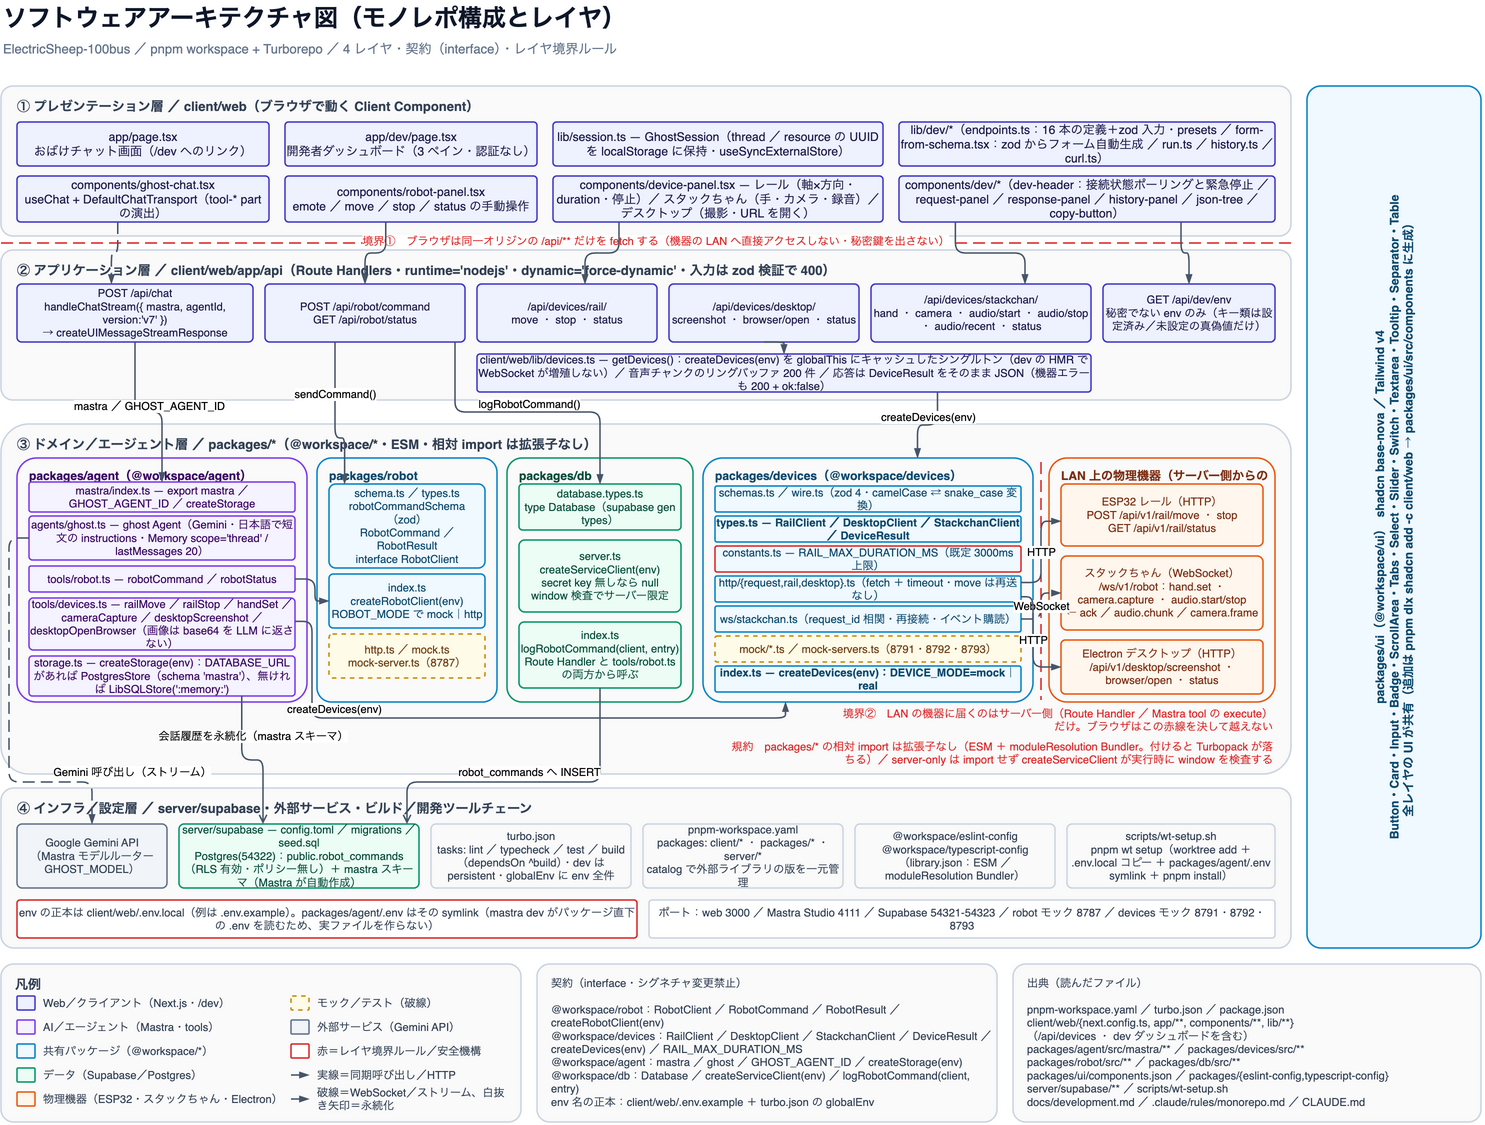
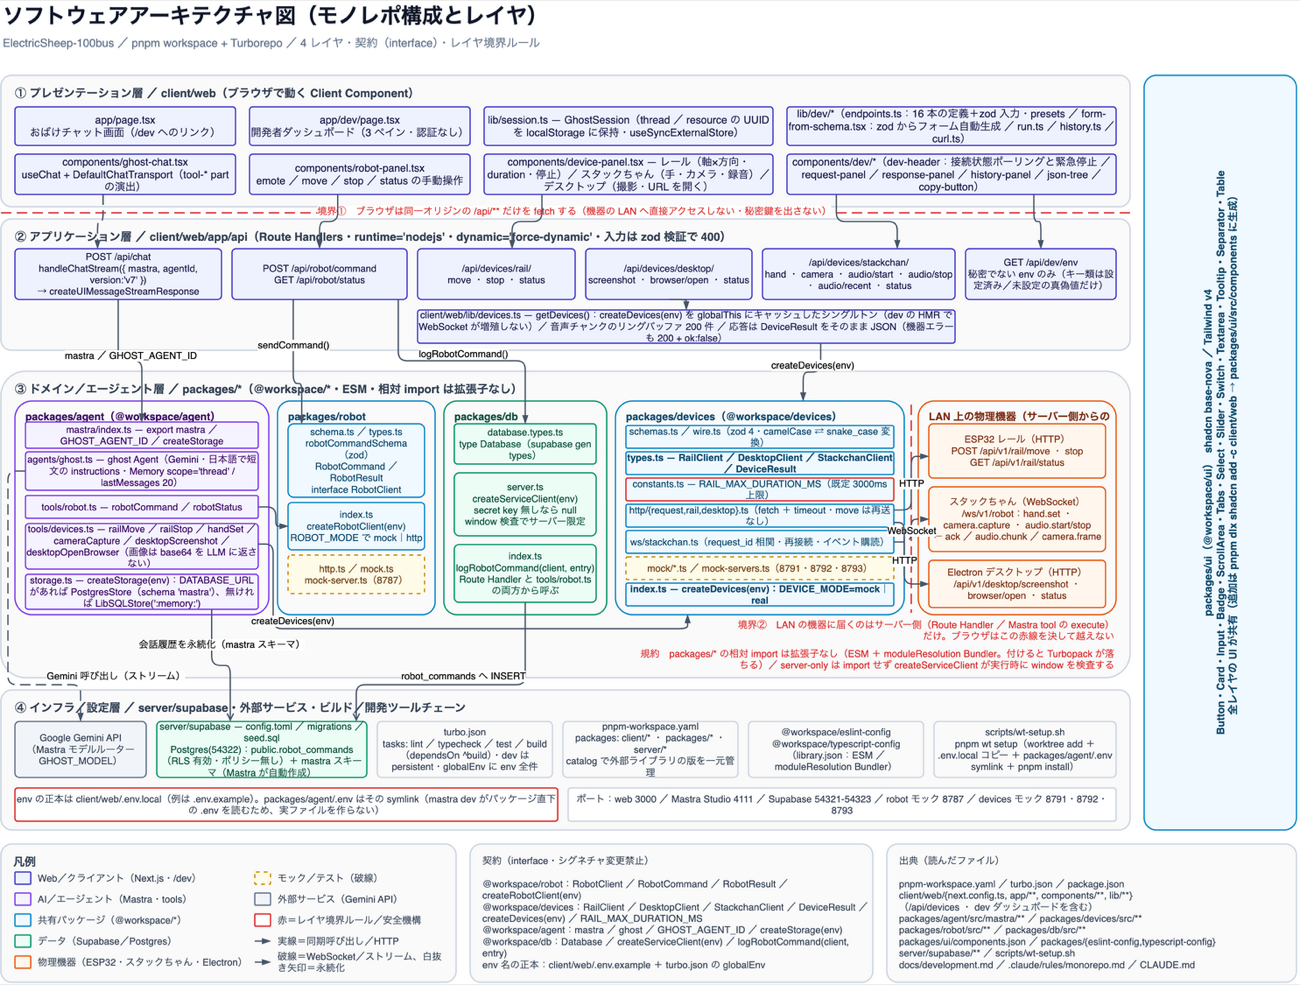
chore: public 公開前の衛生対応（絶対パス・LAN IP の除去、MIT LICENSE 追加）
- docs/development.md・docs/reports/env-setup.html の絶対パスを
  $(git rev-parse --show-toplevel) / <REPO_ROOT> に置換（28 箇所）
- docs/runbooks/devices.md の LAN IP 実値 7 箇所を
  <ESP32_IP> / <STACKCHAN_IP> / <ELECTRON_IP> に置換
- ルートに MIT LICENSE を追加し、全 package.json に "license": "MIT" を設定
  （typescript-config の PROPRIETARY も MIT に変更）
- README.md に /dev・/api/dev/*・/api/devices/* が認証なしでローカル専用である
  注意書きを追加（dev-dashboard.md の表現に合わせる）
- .env.example の DEVICE_MODE コメントを実装に合わせ mock | real に修正、
  DATABASE_URL に Supabase ローカル既定値である旨を追記（README の env 表も同様）
- .gitignore に .claude/settings.local.json と .mcp.json を追加（予防）
- env-setup.html の gh repo create を --public に変更し、監査済みである旨に更新
- 1MB 超の PNG 3 点を sips で縮小（architecture 1.71MB→965KB /
  usecase 1.29MB→978KB / software 1.09MB→985KB）し、手順を diagrams/README.md に追記

Claude-Session: https://claude.ai/code/session_01DZksYTudxGHrLEE6ZMd4Vk

diff --git a/docs/reports/env-setup.html b/docs/reports/env-setup.html
@@ -73,7 +73,8 @@
 <div class="note">
   <strong>いまの状態</strong>：モックで <em>全機能が動く</em>。実機（ESP32 レール・スタックちゃん・Electron）は
   IP / ポート / 認証が未確定のため未接続。<code>.env.local</code> に実機 URL を入れて <code>DEVICE_MODE=real</code> にすれば、
-  コードを 1 行も触らずに切り替わる。
+  コードを 1 行も触らずに切り替わる。<br>
+  本レポート中の <code>&lt;REPO_ROOT&gt;</code> は、このリポジトリをクローンしたルートディレクトリを指す。
 </div>
 
 <!-- ====================== ① やったこと ====================== -->
@@ -274,7 +275,7 @@ EXIT=0   lint 警告 0（出力中の warning は Node の DEP0205 のみ）</co
     <div class="chk-title"><label for="c1">1. 残っている bootstrap worktree を削除する</label></div>
     <div class="chk-tags"><span class="tag">担当: 開発者</span><span class="tag">所要 1 分</span></div>
     <p class="why">なぜ人間か: 別セッションが作った worktree なので、エージェントは他セッションの作業中ディレクトリを消せない規約（削除は作成者のみ）。中身はすでに develop にマージ済み。</p>
-<pre><code>git -C /Users/nano/workspace/contest/hackathon/ElectricSheep-100bus worktree remove /Users/nano/workspace/contest/hackathon/ElectricSheep-100bus/.claude/worktrees/bootstrap</code></pre>
+<pre><code>git -C &lt;REPO_ROOT&gt; worktree remove &lt;REPO_ROOT&gt;/.claude/worktrees/bootstrap</code></pre>
   </div>
 </li>
 
@@ -299,7 +300,7 @@ EXIT=0   lint 警告 0（出力中の warning は Node の DEP0205 のみ）</co
     </table>
     </div>
     <p class="why">詳細版（<code>ack</code> / <code>error</code> のスキーマ、同時接続の可否、ネットワーク条件を含む 11 項目）：
-      <code>/Users/nano/workspace/contest/hackathon/ElectricSheep-100bus/docs/runbooks/devices.md</code> の「§8 未確定事項チェックリスト」</p>
+      <code>&lt;REPO_ROOT&gt;/docs/runbooks/devices.md</code> の「§8 未確定事項チェックリスト」</p>
   </div>
 </li>
 
@@ -310,7 +311,7 @@ EXIT=0   lint 警告 0（出力中の warning は Node の DEP0205 のみ）</co
     <div class="chk-tags"><span class="tag">担当: 開発者（実機の前で）</span><span class="tag">項目 2 の回答待ち</span></div>
     <p class="why">なぜ人間か: 実機の電源投入・LAN 接続・物理的な安全確認（動いてよい状態か）が必要で、エージェントには機器の状態が見えないため。最初の <code>rail/move</code> は必ず人が機器を見ながら短時間（500ms）で試す。</p>
     <p>編集するファイル（このファイルだけ。コードは触らない）：</p>
-<pre><code>/Users/nano/workspace/contest/hackathon/ElectricSheep-100bus/client/web/.env.local
+<pre><code>&lt;REPO_ROOT&gt;/client/web/.env.local
 
 DEVICE_MODE=real
 RAIL_BASE_URL=http://192.168.x.x:ポート
@@ -327,9 +328,9 @@ DEVICE_AUTH_TOKEN=（配布されたら）</code></pre>
   <div class="chk-body">
     <div class="chk-title"><label for="c4">4. GitHub リポジトリを作成して push する</label></div>
     <div class="chk-tags"><span class="tag">担当: あなた</span><span class="tag">所要 5 分</span></div>
-    <p class="why">なぜ人間か: リポジトリの可視性（private / public）の決定と、アカウント・組織の選択は不可逆な公開判断を含むため、エージェントは実行しない規約。現状 remote は未設定でローカルのみ。</p>
-<pre><code>cd /Users/nano/workspace/contest/hackathon/ElectricSheep-100bus
-gh repo create ElectricSheep-100bus --private --source=. --remote=origin
+    <p class="why">public 公開前の監査は実施済みで、リポジトリ本文に秘密情報は 0 件（<code>.env.local</code> は <code>.gitignore</code> 済み・絶対パス / LAN IP はプレースホルダ化・LICENSE は MIT）。作者メールアドレスがコミットメタデータに残る点の扱いは本人判断。なぜ人間か: 可視性の変更とアカウント・組織の選択は不可逆な公開判断のため、エージェントは実行しない規約。現状 remote は未設定でローカルのみ。</p>
+<pre><code>cd &lt;REPO_ROOT&gt;
+gh repo create ElectricSheep-100bus --public --source=. --remote=origin
 git push -u origin develop
 git push origin main</code></pre>
     <p class="why">機密は <code>.env.local</code> のみで <code>.gitignore</code> 済み（<code>.env.example</code> だけ追跡）。push 前に <code>git status --ignored | grep env</code> で再確認すると安心。</p>
@@ -342,7 +343,7 @@ git push origin main</code></pre>
     <div class="chk-title"><label for="c5">5. <code>develop</code> → <code>main</code> への反映を許可・実行する</label></div>
     <div class="chk-tags"><span class="tag">担当: あなた</span><span class="tag">項目 3 の実機確認後を推奨</span></div>
     <p class="why">なぜ人間か: <code>main</code> へのマージと push はエージェント禁止（規約で機械的にブロック済み）。実機確認まで済ませてから反映するのが安全。</p>
-<pre><code>cd /Users/nano/workspace/contest/hackathon/ElectricSheep-100bus
+<pre><code>cd &lt;REPO_ROOT&gt;
 git log --oneline main..develop      # 入る変更を確認
 git checkout main &amp;&amp; git merge --ff-only develop
 git push origin main                 # 項目 4 を済ませている場合</code></pre>
@@ -365,7 +366,7 @@ git push origin main                 # 項目 4 を済ませている場合</cod
       </tbody>
     </table>
     </div>
-    <p class="why">切り替えは <code>/Users/nano/workspace/contest/hackathon/ElectricSheep-100bus/client/web/.env.local</code> を編集して <code>pnpm dev</code> を再起動するだけ。<strong>デモ中は <code>/dev</code> を開いたタブを来場者の手が届く画面に出さない</strong>（認証なしで機器が動く）。</p>
+    <p class="why">切り替えは <code>&lt;REPO_ROOT&gt;/client/web/.env.local</code> を編集して <code>pnpm dev</code> を再起動するだけ。<strong>デモ中は <code>/dev</code> を開いたタブを来場者の手が届く画面に出さない</strong>（認証なしで機器が動く）。</p>
   </div>
 </li>
 
@@ -375,26 +376,26 @@ git push origin main                 # 項目 4 を済ませている場合</cod
 <h2>④ 参照</h2>
 
 <h3>ドキュメント（絶対パス）</h3>
-<pre><code>/Users/nano/workspace/contest/hackathon/ElectricSheep-100bus/README.md
-/Users/nano/workspace/contest/hackathon/ElectricSheep-100bus/docs/setup.md
-/Users/nano/workspace/contest/hackathon/ElectricSheep-100bus/docs/development.md
-/Users/nano/workspace/contest/hackathon/ElectricSheep-100bus/docs/specs/robot-api-requirements.md
-/Users/nano/workspace/contest/hackathon/ElectricSheep-100bus/docs/runbooks/devices.md
-/Users/nano/workspace/contest/hackathon/ElectricSheep-100bus/docs/runbooks/dev-dashboard.md
-/Users/nano/workspace/contest/hackathon/ElectricSheep-100bus/docs/runbooks/mastra.md
-/Users/nano/workspace/contest/hackathon/ElectricSheep-100bus/docs/runbooks/supabase.md
-/Users/nano/workspace/contest/hackathon/ElectricSheep-100bus/docs/runbooks/robot.md
-/Users/nano/workspace/contest/hackathon/ElectricSheep-100bus/docs/reports/env-setup.html   ← 本レポート
-/Users/nano/workspace/contest/hackathon/ElectricSheep-100bus/.claude/skills/dev-runbook/SKILL.md
-/Users/nano/workspace/contest/hackathon/ElectricSheep-100bus/docs/diagrams/README.md              &larr; 資料用ダイアグラム 6 点の索引
-/Users/nano/workspace/contest/hackathon/ElectricSheep-100bus/docs/diagrams/usecase.drawio          ユースケース図
-/Users/nano/workspace/contest/hackathon/ElectricSheep-100bus/docs/diagrams/context.drawio          コンテキスト図
-/Users/nano/workspace/contest/hackathon/ElectricSheep-100bus/docs/diagrams/architecture.drawio     システムアーキテクチャ図
-/Users/nano/workspace/contest/hackathon/ElectricSheep-100bus/docs/diagrams/software.drawio         ソフトウェアアーキテクチャ図
-/Users/nano/workspace/contest/hackathon/ElectricSheep-100bus/docs/diagrams/dependencies.drawio     依存関係図
-/Users/nano/workspace/contest/hackathon/ElectricSheep-100bus/docs/diagrams/quality.drawio          こだわり図
-/Users/nano/workspace/contest/hackathon/ElectricSheep-100bus/client/web/.env.local          ← env の正本
-/Users/nano/workspace/contest/hackathon/ElectricSheep-100bus/client/web/.env.example</code></pre>
+<pre><code>&lt;REPO_ROOT&gt;/README.md
+&lt;REPO_ROOT&gt;/docs/setup.md
+&lt;REPO_ROOT&gt;/docs/development.md
+&lt;REPO_ROOT&gt;/docs/specs/robot-api-requirements.md
+&lt;REPO_ROOT&gt;/docs/runbooks/devices.md
+&lt;REPO_ROOT&gt;/docs/runbooks/dev-dashboard.md
+&lt;REPO_ROOT&gt;/docs/runbooks/mastra.md
+&lt;REPO_ROOT&gt;/docs/runbooks/supabase.md
+&lt;REPO_ROOT&gt;/docs/runbooks/robot.md
+&lt;REPO_ROOT&gt;/docs/reports/env-setup.html   ← 本レポート
+&lt;REPO_ROOT&gt;/.claude/skills/dev-runbook/SKILL.md
+&lt;REPO_ROOT&gt;/docs/diagrams/README.md              &larr; 資料用ダイアグラム 6 点の索引
+&lt;REPO_ROOT&gt;/docs/diagrams/usecase.drawio          ユースケース図
+&lt;REPO_ROOT&gt;/docs/diagrams/context.drawio          コンテキスト図
+&lt;REPO_ROOT&gt;/docs/diagrams/architecture.drawio     システムアーキテクチャ図
+&lt;REPO_ROOT&gt;/docs/diagrams/software.drawio         ソフトウェアアーキテクチャ図
+&lt;REPO_ROOT&gt;/docs/diagrams/dependencies.drawio     依存関係図
+&lt;REPO_ROOT&gt;/docs/diagrams/quality.drawio          こだわり図
+&lt;REPO_ROOT&gt;/client/web/.env.local          ← env の正本
+&lt;REPO_ROOT&gt;/client/web/.env.example</code></pre>
 
 <h3>ポート</h3>
 <div class="tablewrap">
@@ -415,7 +416,7 @@ git push origin main                 # 項目 4 を済ませている場合</cod
 </div>
 
 <h3>起動コマンド一式</h3>
-<pre><code>cd /Users/nano/workspace/contest/hackathon/ElectricSheep-100bus
+<pre><code>cd &lt;REPO_ROOT&gt;
 
 pnpm install
 pnpm verify                 # 納品ゲート: lint typecheck test build

diff --git a/README.md b/README.md
@@ -81,6 +81,8 @@ pnpm dev            # http://localhost:3000
 #    開発者ダッシュボード（全 API を手で叩ける）: http://localhost:3000/dev
 ```
 
+> **`/dev` は認証なし・ローカル専用**。`/dev` と `/api/dev/*`・`/api/devices/*` には認証が無く、開けば誰でも機器を動かせる。`localhost` からのみ使い、`next dev` を `--hostname 0.0.0.0` で公開したり、トンネル（ngrok / Cloudflare Tunnel 等）で外に出したりしないこと。詳細は [`docs/runbooks/dev-dashboard.md`](docs/runbooks/dev-dashboard.md)。
+
 `DEVICE_MODE=mock`（既定）は**プロセス内モック**なので手順 5 は不要。8791-8793 のモックサーバーまで含めて実 HTTP / WebSocket 経路を試すときは、env を上書きして起動する。
 
 ```bash
@@ -145,7 +147,7 @@ pnpm dlx shadcn@latest add button -c client/web
 | `ROBOT_MODE` | `mock` | `mock` \| `http` |
 | `ROBOT_BASE_URL` | `http://127.0.0.1:8787` | `ROBOT_MODE=http` のときの接続先 |
 | `ROBOT_MOCK_PORT` | `8787` | モックサーバーの待ち受けポート |
-| `DATABASE_URL` | `postgresql://postgres:postgres@127.0.0.1:54322/postgres` | Mastra Memory の保存先。未設定なら in-memory |
+| `DATABASE_URL` | `postgresql://postgres:postgres@127.0.0.1:54322/postgres` | Mastra Memory の保存先。既定値は Supabase ローカルのもの（`supabase start` が生成）。未設定なら in-memory |
 | `SUPABASE_URL` | `http://127.0.0.1:54321` | Supabase ローカル API |
 | `SUPABASE_SECRET_KEY` | （空） | サーバー専用キー（`sb_secret_...`）。`pnpm exec supabase --workdir server status -o env \| grep SECRET_KEY` で取得。未設定なら `robot_commands` ログをスキップ |
 | `DEVICE_MODE` | `mock` | `mock` \| `real`。機器 API の接続先。詳細は [`docs/runbooks/devices.md`](docs/runbooks/devices.md) |

diff --git a/docs/development.md b/docs/development.md
@@ -41,7 +41,7 @@ pnpm wt setup <task> [base=develop]
 手動でやる場合の等価コマンド:
 
 ```bash
-ROOT=/Users/nano/workspace/contest/hackathon/ElectricSheep-100bus
+ROOT=$(git rev-parse --show-toplevel)
 git -C "$ROOT" worktree add "$ROOT/.claude/worktrees/<task>" -b feat/<task> develop
 cd "$ROOT/.claude/worktrees/<task>"
 cp "$ROOT/client/web/.env.local" client/web/.env.local
@@ -52,7 +52,7 @@ pnpm install --prefer-offline
 ### 削除
 
 ```bash
-git worktree remove /Users/nano/workspace/contest/hackathon/ElectricSheep-100bus/.claude/worktrees/<task>
+git worktree remove "$(git rev-parse --show-toplevel)/.claude/worktrees/<task>"
 ```
 
 - **自分のセッションが作った worktree だけ**を、**1 本ずつ**消す

diff --git a/docs/diagrams/README.md b/docs/diagrams/README.md
@@ -76,7 +76,13 @@
 /Applications/draw.io.app/Contents/MacOS/draw.io -x -f png -s 2 -o docs/diagrams/architecture.png docs/diagrams/architecture.drawio
 ```
 
-4. `.drawio` と `.png` を**必ずセットでコミット**する（PNG だけ古い状態にしない）
+4. PNG が 1MB を超えたら `sips` で縮小する（GitHub 上の表示が重くなるため。1MB 未満が目安）:
+
+```bash
+sips -s format png --resampleWidth 2000 docs/diagrams/<name>.png --out docs/diagrams/<name>.png
+```
+
+5. `.drawio` と `.png` を**必ずセットでコミット**する（PNG だけ古い状態にしない）
 
 ### 実装を変えたら図も直す
 
